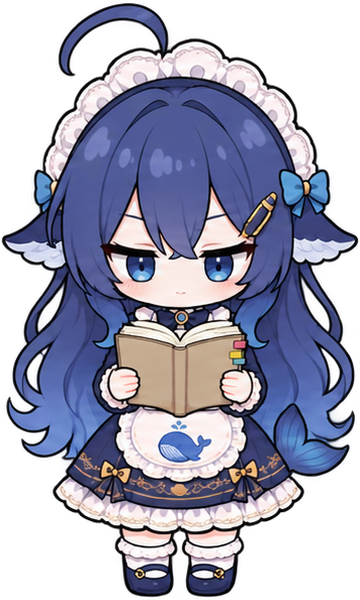
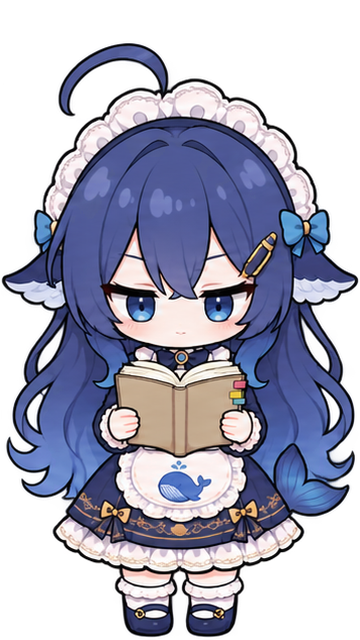
接上 9 种真表情（Kapozux 画：开心、委屈、吃惊、犯困、害羞、思考、吃饭、鼓脸、得意），切图后缩到和平时站姿同样身高、脚底对齐；所有立绘统一成 360×640（吃惊那张呆毛高，多留了头顶）。有图就换图，不再叠漫画符号

diff --git a/desktop/index.html b/desktop/index.html
@@ -12,7 +12,7 @@ const prefs = {
 const seen = new Map()
 const load = () => fetch('moments.json', { cache: 'no-store' }).then(r => r.ok ? r.json() : null).then(d => d?.moments ? d : null).catch(e => { console.error('读台词失败', e); return null })
 const engine = createPet(document.getElementById('host'), {
-  size: 300, aspect: 360 / 600, prefs,
+  size: 320, aspect: 360 / 640, prefs,
   fontSrc: 'assets/fonts/xbb-rounded.woff2',
   figureSrc: k => { if (!seen.has(k)) seen.set(k, fetch('assets/xiaobenben/' + k + '.png', { method: 'HEAD' }).then(r => r.ok ? 'assets/xiaobenben/' + k + '.png' : null).catch(() => null)); return seen.get(k) },
   loadMoments: load,

diff --git a/src/client/Pet.jsx b/src/client/Pet.jsx
@@ -38,8 +38,8 @@ export function Pet() {
     let engine = null
     const syncDesktop = d => { host.style.display = d?.desktop?.on ? 'none' : '' }
     engine = createPet(host, {
-      size: 300,
-      aspect: 360 / 600,
+      size: 320,
+      aspect: 360 / 640,
       prefs,
       figureSrc,
       fontSrc: asset('fonts/xbb-rounded.woff2'),

diff --git a/assets/xiaobenben/CREDITS.md b/assets/xiaobenben/CREDITS.md
@@ -4,7 +4,9 @@
 |---|---|---|
 | `turnaround.png` | 三视图原画（正面 / 侧面 / 背面，透明背景） | Kapozux，用 ChatGPT 的图像生成绘制 |
 | `flip-sheet.png` | 翻本子的 6 帧原画（一张横排） | 同上 |
-| `flip-1.png` … `flip-6.png` | 从 `flip-sheet.png` 切出的单帧，统一成 360×600、按脚底对齐 | 同上（切图、对齐：本插件） |
+| `flip-1.png` … `flip-6.png` | 从 `flip-sheet.png` 切出的单帧，统一成 360×640、按脚底对齐 | 同上（切图、对齐：本插件） |
+| `expressions-sheet.png` | 9 种表情原画（一张横排） | 同上 |
+| `happy` `sad` `surprised` `sleepy` `shy` `thinking` `eat` `pout` `proud` `.png` | 从 `expressions-sheet.png` 切出的单帧，缩放到和 `normal.png` 同样身高、按脚底对齐 | 同上（切图、对齐：本插件） |
 | `normal.png` | 平时站着的样子，就是 `flip-1.png` | 同上 |
 | `blink.png` | 闭眼帧：在 `normal.png` 的眼睛位置改画成闭眼 | 同上（改画：本插件） |
 
@@ -17,5 +19,5 @@
 
 ## 想加表情图？
 
-同目录放这些名字的透明 PNG（和 `normal.png` 同尺寸 360×600、脚底贴着下边、左右居中）就会自动换上，缺哪张就用 `normal.png` 加代码画的漫画符号：
+同目录放这些名字的透明 PNG（和 `normal.png` 同尺寸 360×640、脚底贴着下边、左右居中）就会自动换上，缺哪张就用 `normal.png` 加代码画的漫画符号：
 `happy.png` `sad.png` `surprised.png` `sleepy.png` `shy.png` `thinking.png` `eat.png` `pout.png` `proud.png`。
